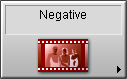
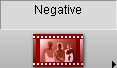
Updated reference images/regions

diff --git a/src/server.py b/src/server.py
@@ -16,8 +16,8 @@ reference_images = {
 def derive_settings():
     # Define regions for each setting
     regions = {
-        "film_type":    (235, 141, 127, 79),    # Example coordinates for film_type
-        "border":       (453, 100, 64, 21),     # Example coordinates for border
+        "film_type":    (240, 146, 117, 69),    # Example coordinates for film_type
+        "border":       (461, 105, 47, 11),     # Example coordinates for border
         "file_format":  (387, 376, 115, 67)     # Example coordinates for file_format
         #               (x-coordinate, y-coordinate, width, height)
     }
